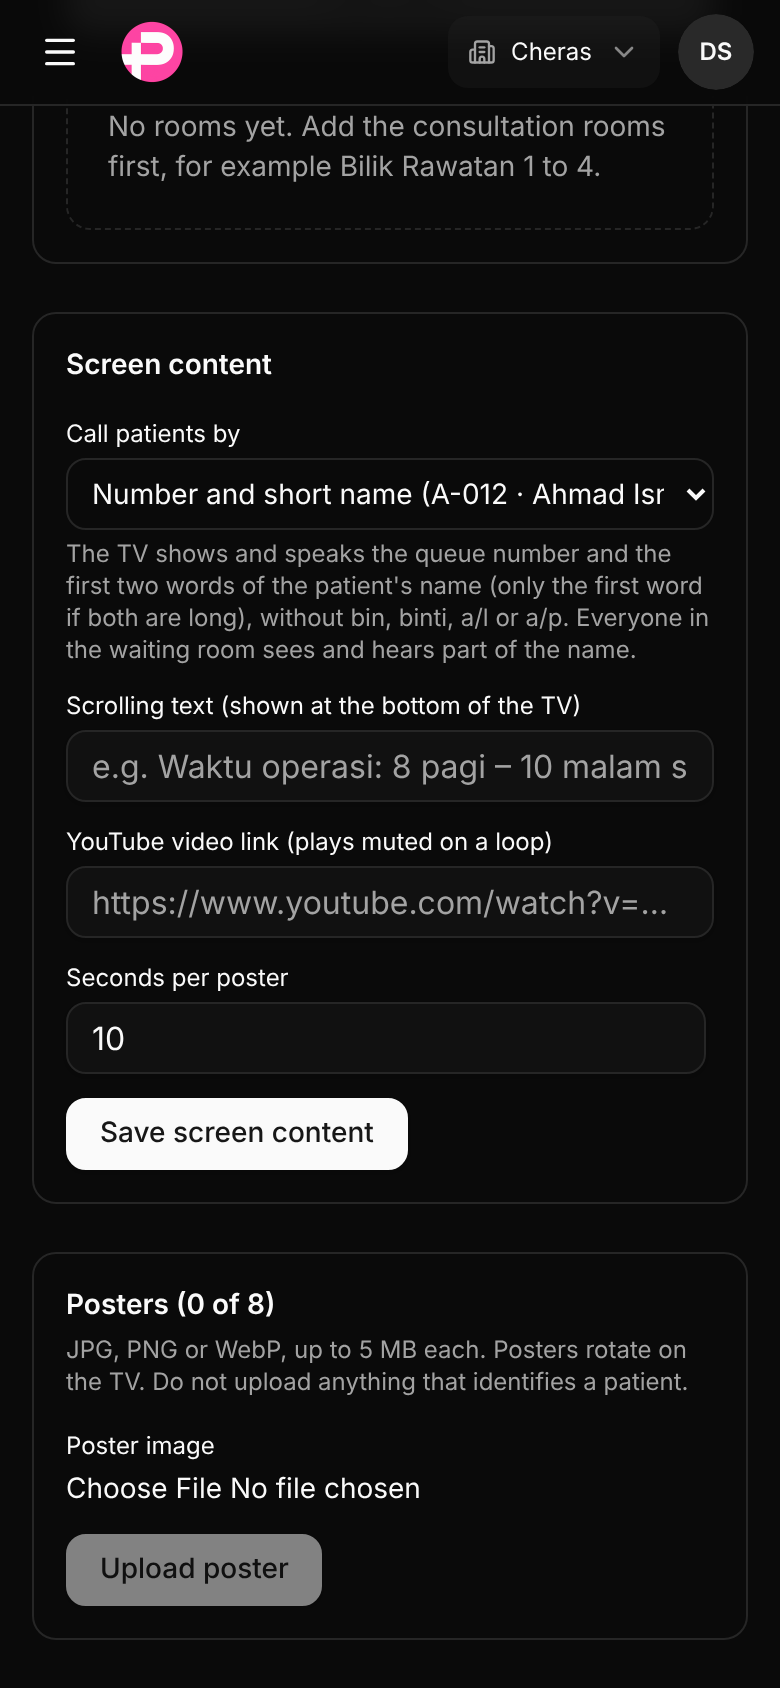
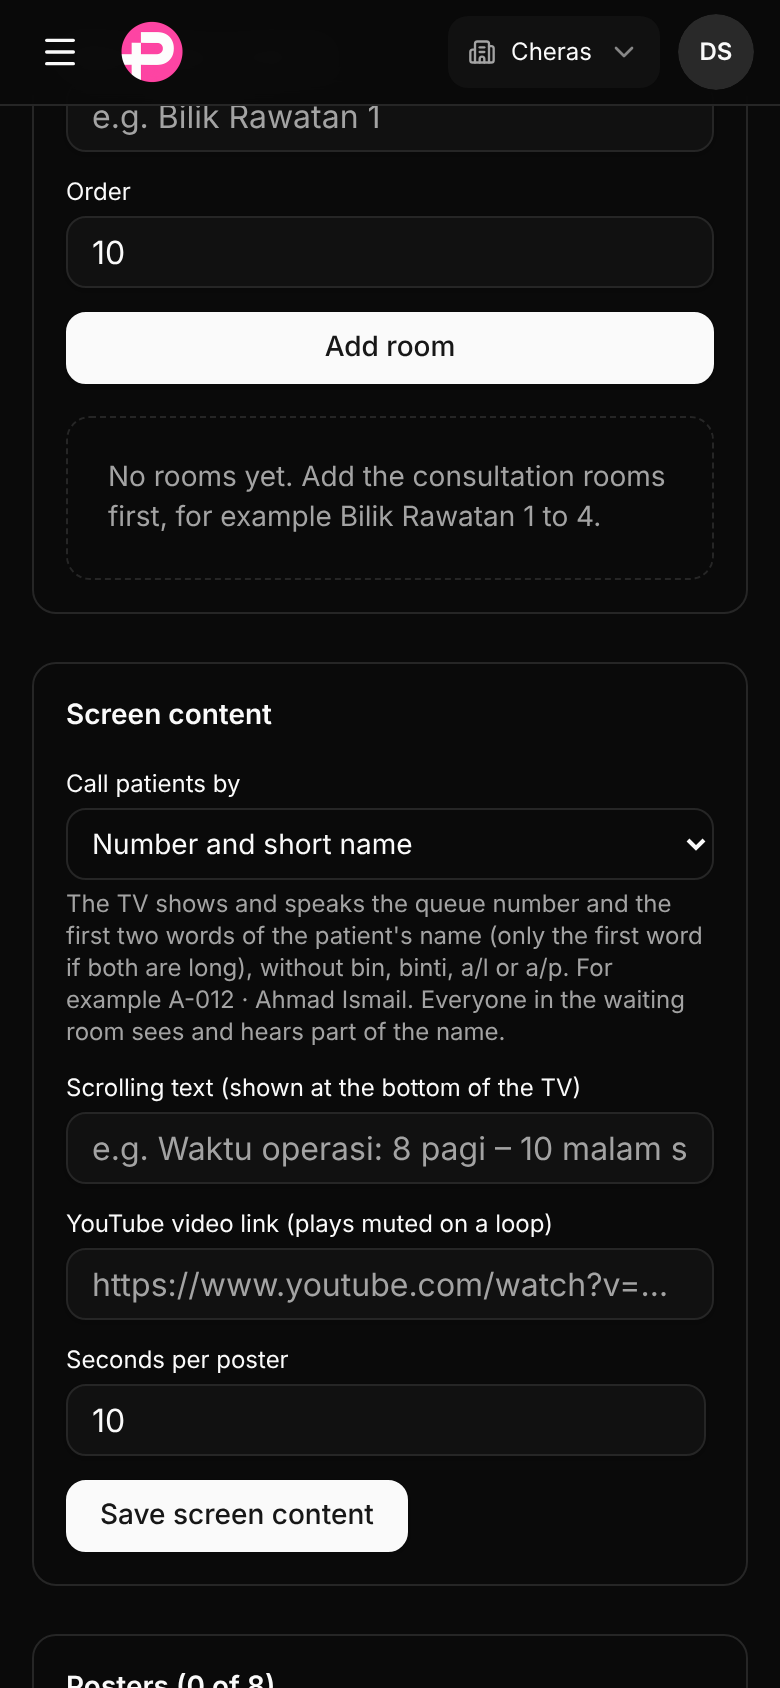
Q-3: shorter short-name option so it fits a phone; example moves to the help text
Daniel's review: at 390 px the closed select cut the option off.

Claude-Session: https://claude.ai/code/session_01MHFmnYonysroHahVHHGCan

diff --git a/resources/js/pages/QueueDisplay/Settings.vue b/resources/js/pages/QueueDisplay/Settings.vue
@@ -94,7 +94,7 @@ const callModeHelp = computed(
         ({
             number: 'The TV and the spoken call use the queue number only. No patient name is shown or spoken.',
             short_name:
-                "The TV shows and speaks the queue number and the first two words of the patient's name (only the first word if both are long), without bin, binti, a/l or a/p. Everyone in the waiting room sees and hears part of the name.",
+                "The TV shows and speaks the queue number and the first two words of the patient's name (only the first word if both are long), without bin, binti, a/l or a/p. For example A-012 · Ahmad Ismail. Everyone in the waiting room sees and hears part of the name.",
             name: "The TV shows and speaks each patient's full registered name to everyone in the waiting room. This is the least private choice.",
         })[
             settingsForm.call_display_mode as 'number' | 'short_name' | 'name'
@@ -392,7 +392,7 @@ const removePoster = (posterId: string) => {
                             Queue number (A-001, B-001)
                         </option>
                         <option value="short_name">
-                            Number and short name (A-012 · Ahmad Ismail)
+                            Number and short name
                         </option>
                         <option value="name">
                             Patient full name (as registered)
